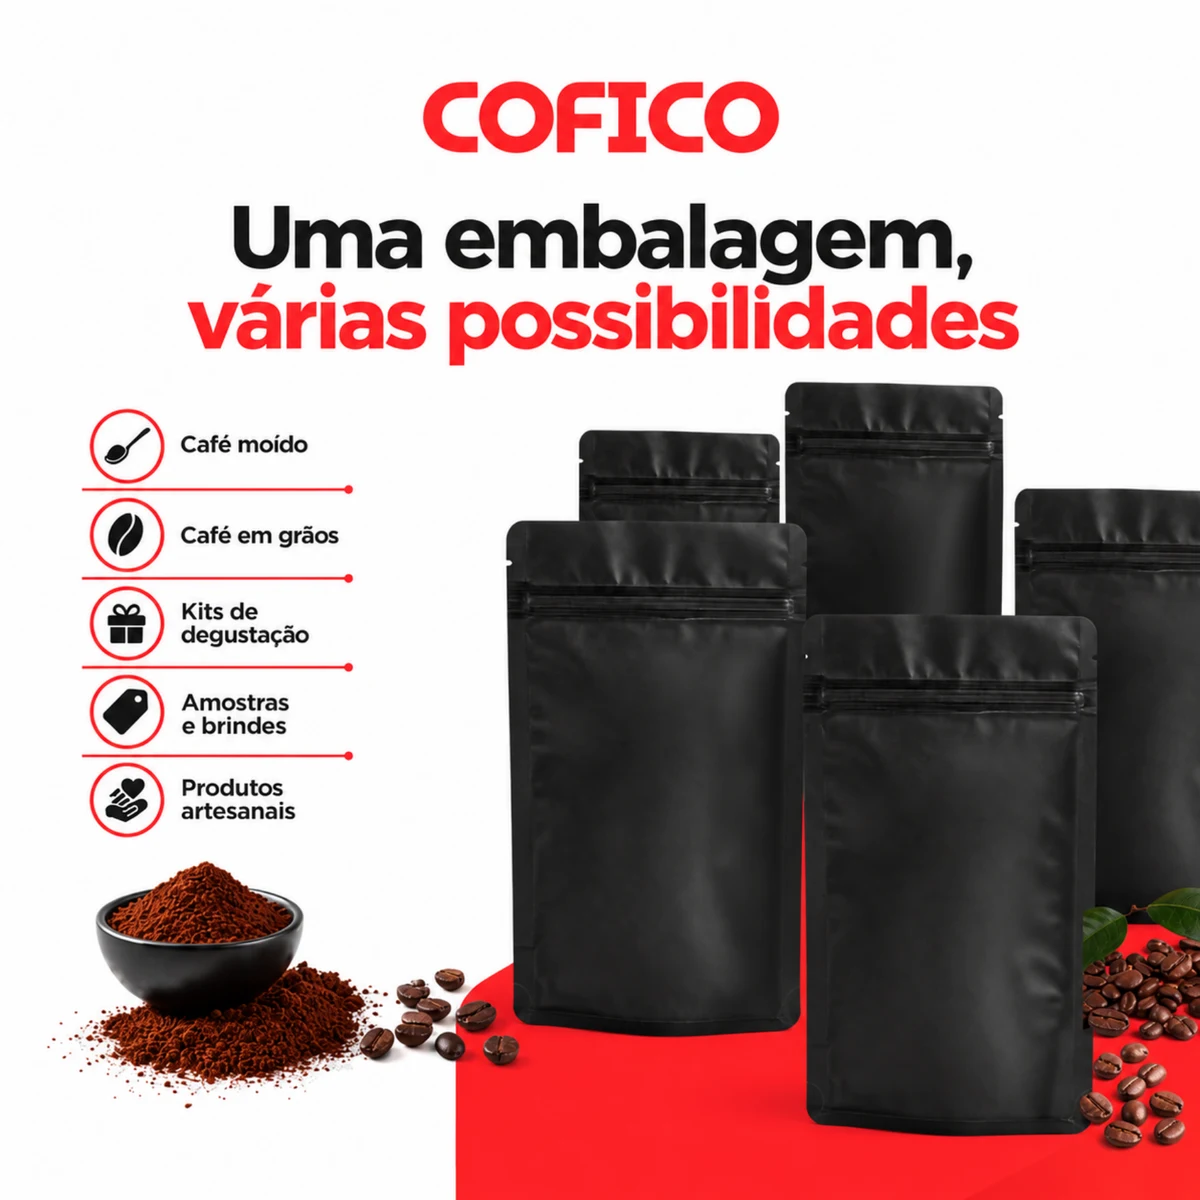
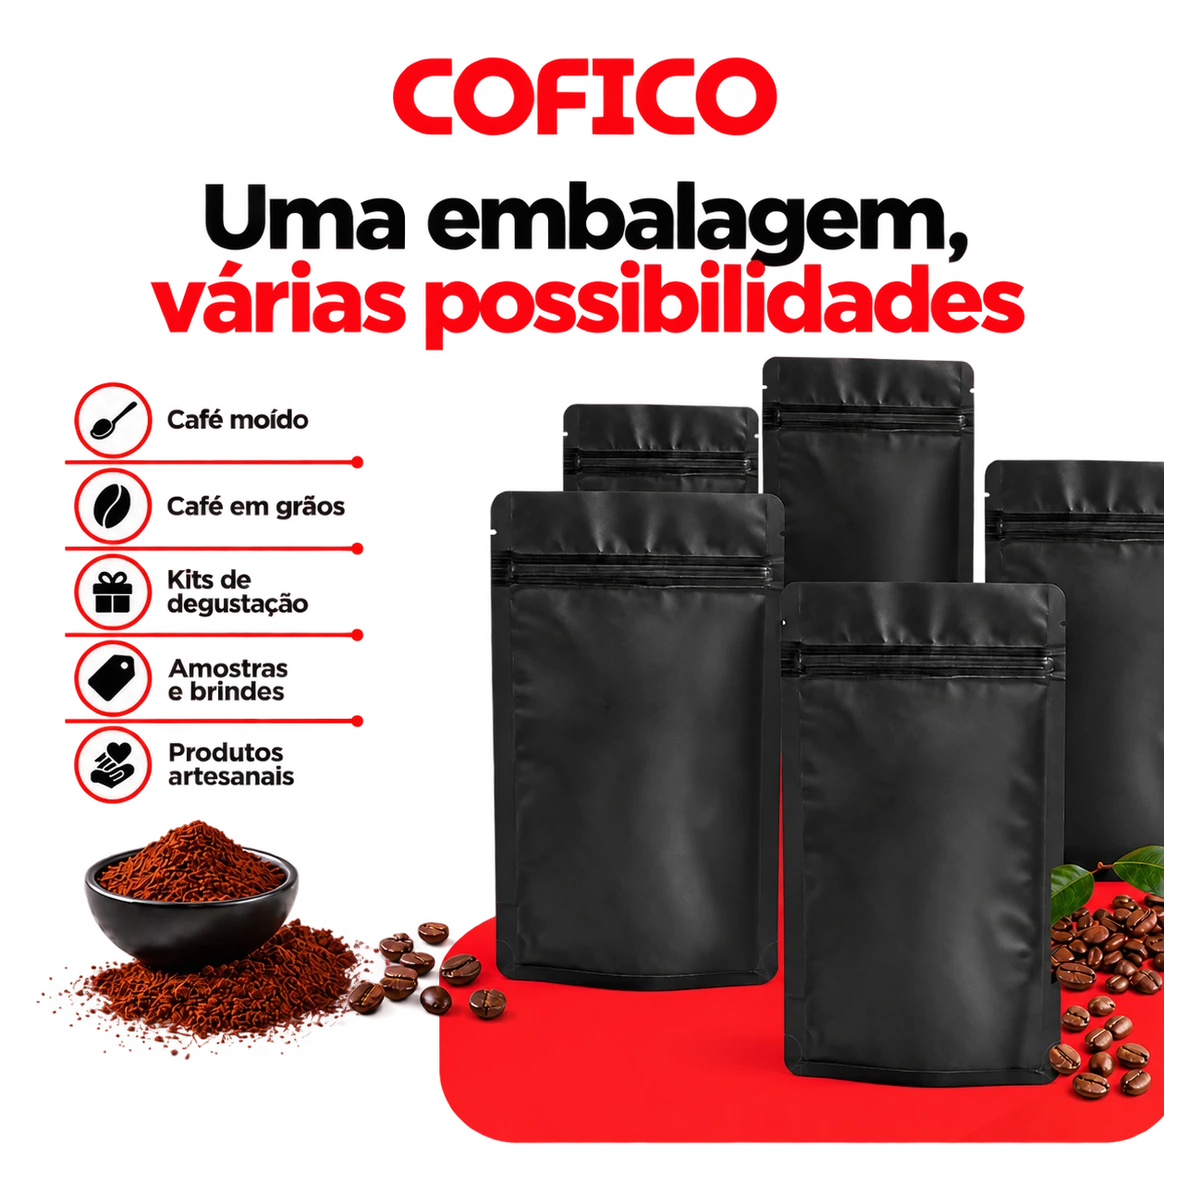
feat(cofico): fotos de embalagem sem fundo, sem moldura vermelha
Padrao aprovado pelo Vlademir: arte transparente centralizada no quadro, sem
quadro vermelho nem fundo branco do fornecedor. Vale para toda embalagem nova.

- quatro artes do pouch 50 g refeitas transparentes (trim + quadro 1200 px)
- faixa vermelha orfa do rodape da arte de medidas removida
- miniatura selecionada marcada com a borda COFICO

diff --git a/src/pages/coficobrasil/CardEmbalagem.tsx b/src/pages/coficobrasil/CardEmbalagem.tsx
@@ -29,13 +29,13 @@ export default function CardEmbalagem({ item, ancora }: { item: EmbalagemItem; a
   return (
     <article className="border border-neutral-200 p-6 grid gap-8 sm:grid-cols-[minmax(0,420px)_minmax(0,1fr)] items-start">
       {/* Foto grande à esquerda, miniaturas embaixo — quem compra embalagem decide pelo que vê.
-          Moldura vermelha COFICO: o branco das artes do fornecedor não é o mesmo branco da
-          página, e sem a moldura a foto parecia um retângulo sujo no meio do card. */}
+          O painel da foto é vermelho COFICO: o branco das artes não é o mesmo branco da página,
+          e solto no card a foto parecia um retângulo sujo. Sobre o vermelho, ela se fecha. */}
       {fotos.length > 0 && (
         <div>
           <button type="button" onClick={() => setAmpliada(true)}
             title="Ver a foto grande" aria-label={`Ver ${item.nome} em tamanho grande`}
-            className="group relative w-full aspect-square flex items-center justify-center cursor-zoom-in bg-white border-[6px] border-cofico">
+            className="group relative w-full aspect-square flex items-center justify-center cursor-zoom-in bg-white">
             <img src={fotos[atual]} alt={item.nome} className="w-full h-full object-contain"
               onError={(e) => { e.currentTarget.style.display = 'none'; }} />
             <span className="absolute bottom-1 right-1 inline-flex items-center gap-1 bg-white/90 border border-neutral-200 text-[11px] font-semibold text-neutral-600 px-2 py-1 opacity-0 group-hover:opacity-100 transition-opacity">
@@ -47,7 +47,7 @@ export default function CardEmbalagem({ item, ancora }: { item: EmbalagemItem; a
               {fotos.map((f, i) => (
                 <button key={f} type="button" onClick={() => setAtual(i)}
                   aria-label={`Foto ${i + 1} de ${item.nome}`} aria-current={i === atual}
-                  className={`w-16 h-16 border p-1 transition-colors ${i === atual ? 'border-cofico-ink' : 'border-neutral-200 hover:border-neutral-400'}`}>
+                  className={`w-16 h-16 border-2 p-1 bg-white transition-colors ${i === atual ? 'border-cofico' : 'border-neutral-200 hover:border-neutral-400'}`}>
                   <img src={f} alt="" className="w-full h-full object-contain" />
                 </button>
               ))}
